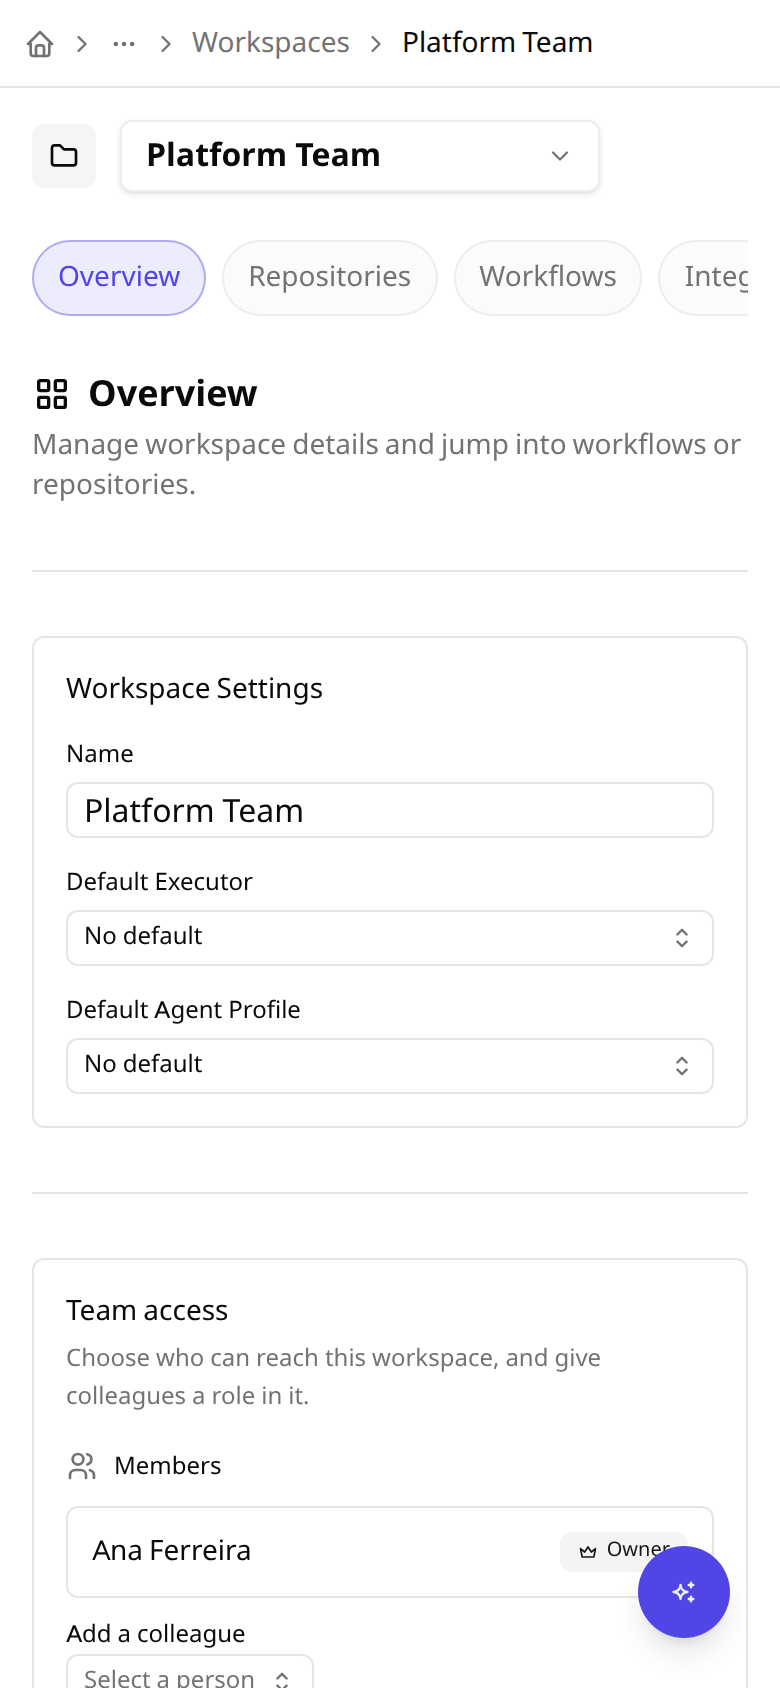
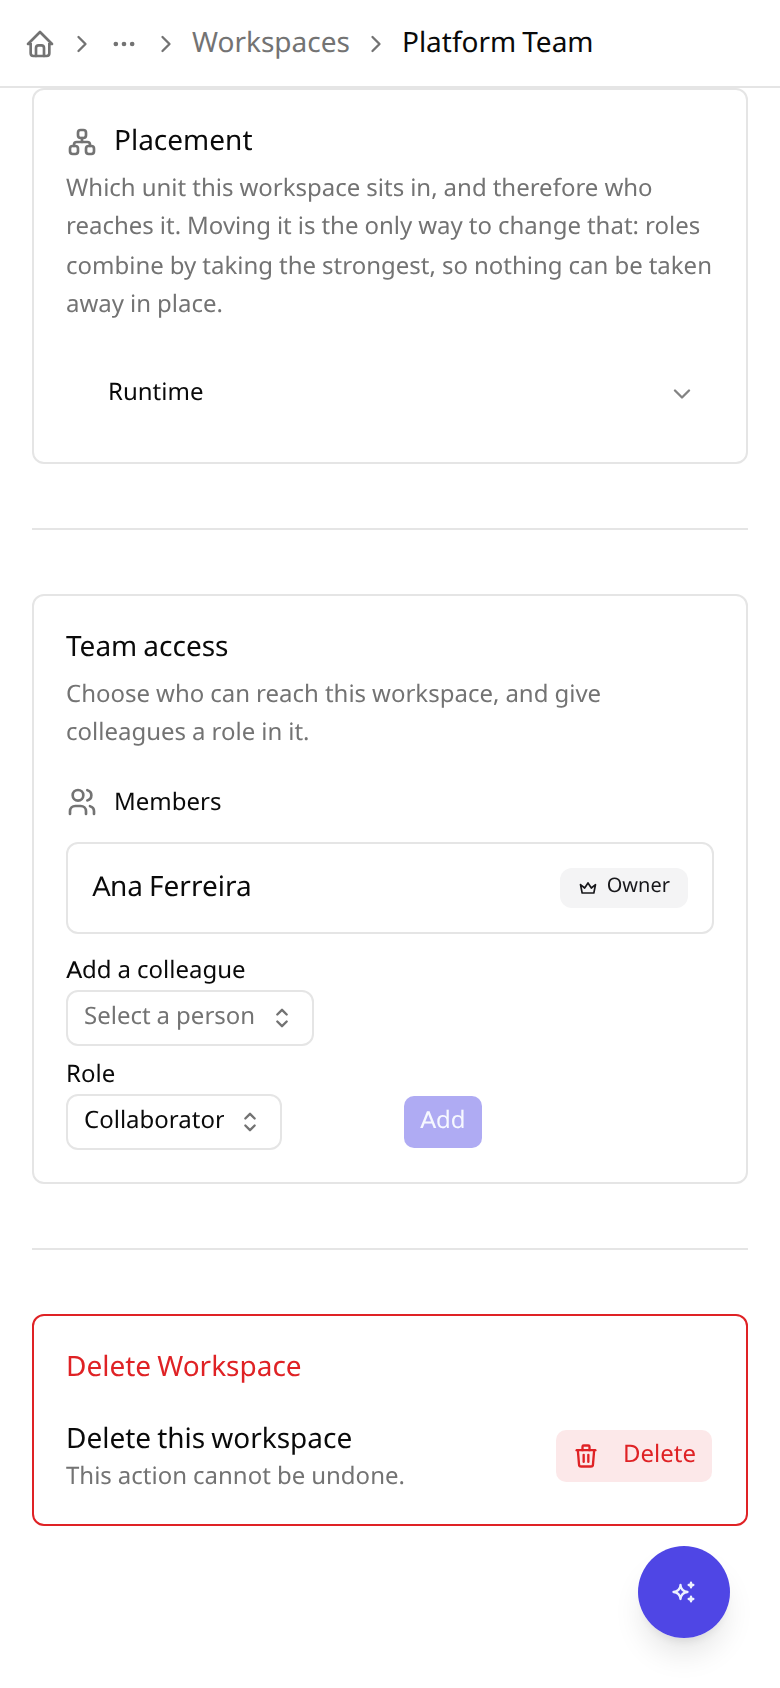
feat(workspaces): add the placement control the interface was missing
Auditing screenshots turned up a gap the work order had claimed was done:
nothing in the interface could move a workspace between units. The API existed
and the e2e spec drove it over HTTP, but placement is the only way to narrow
access in this model, so the capability was unreachable to anyone not using
curl.

The card sits on the workspace settings page, is gated on workspace.manage,
and restores the previous unit when the server refuses a move. Copy ships in
all five locales.

Also captures the two screens that had none: creating a unit, and placement
itself.

diff --git a/apps/web/components/settings/workspaces/workspace-placement-card.tsx b/apps/web/components/settings/workspaces/workspace-placement-card.tsx
@@ -1,0 +1,84 @@
+"use client";
+
+import { useState } from "react";
+import { useTranslation } from "react-i18next";
+import { IconSitemap } from "@tabler/icons-react";
+import { Button } from "@kandev/ui/button";
+import { Card, CardContent, CardDescription, CardHeader, CardTitle } from "@kandev/ui/card";
+import { Combobox } from "@/components/combobox";
+import { toast } from "@/lib/toast/sonner";
+import { useOrgUnits } from "@/hooks/domains/org/use-org-units";
+import { placeWorkspace } from "@/lib/api/domains/org-units-api";
+import { hasScope, SCOPE } from "@/lib/types/team-access";
+
+type Props = {
+  workspaceId: string;
+  unitId?: string;
+  scopes?: readonly string[];
+};
+
+/**
+ * Where a workspace sits, and therefore who reaches it.
+ *
+ * Moving it is the only way to widen or narrow access: roles combine by
+ * maximum, so nothing can be subtracted from a workspace in place. That makes
+ * this control the counterpart of unit membership rather than a filing
+ * convenience.
+ */
+export function WorkspacePlacementCard({ workspaceId, unitId, scopes }: Props) {
+  const { t } = useTranslation();
+  const units = useOrgUnits();
+  const canManage = hasScope(scopes, SCOPE.workspaceManage);
+  const [saving, setSaving] = useState(false);
+  const [current, setCurrent] = useState(unitId ?? "");
+
+  const move = async (next: string) => {
+    if (!next || next === current) return;
+    const previous = current;
+    setCurrent(next);
+    setSaving(true);
+    try {
+      await placeWorkspace(workspaceId, next);
+      toast.success(t("workspaces:placement.moved"));
+    } catch (err) {
+      setCurrent(previous);
+      toast.error(err instanceof Error ? err.message : t("workspaces:placement.failed"));
+    } finally {
+      setSaving(false);
+    }
+  };
+
+  return (
+    <Card data-testid="workspace-placement-card">
+      <CardHeader>
+        <CardTitle className="flex items-center gap-2">
+          <IconSitemap className="text-muted-foreground size-4" aria-hidden />
+          {t("workspaces:placement.title")}
+        </CardTitle>
+        <CardDescription>{t("workspaces:placement.description")}</CardDescription>
+      </CardHeader>
+      <CardContent className="flex flex-wrap items-center gap-2">
+        <Combobox
+          options={units.units.map((unit) => ({
+            value: unit.id,
+            label: `${"  ".repeat(unit.depth)}${unit.name}`,
+            keywords: [unit.name],
+          }))}
+          value={current}
+          onValueChange={(next) => void move(next)}
+          disabled={!canManage || saving || units.loading}
+          placeholder={t("workspaces:placement.pick")}
+          searchPlaceholder={t("workspaces:placement.search")}
+          emptyMessage={t("workspaces:placement.none")}
+          triggerClassName="h-9 w-full max-w-sm justify-between"
+          testId="workspace-placement-picker"
+        />
+        {!canManage && (
+          <Button variant="ghost" size="sm" disabled>
+            {t("workspaces:placement.ownerOnly")}
+          </Button>
+        )}
+      </CardContent>
+    </Card>
+  );
+}

diff --git a/apps/web/components/settings/workspaces/workspace-placement-card.test.tsx b/apps/web/components/settings/workspaces/workspace-placement-card.test.tsx
@@ -1,0 +1,70 @@
+import { afterEach, describe, expect, it, vi } from "vitest";
+import { cleanup, fireEvent, render, screen, waitFor } from "@testing-library/react";
+import { WorkspacePlacementCard } from "./workspace-placement-card";
+
+const placeWorkspace = vi.fn();
+
+vi.mock("@/lib/api/domains/org-units-api", async () => {
+  const actual = await vi.importActual<typeof import("@/lib/api/domains/org-units-api")>(
+    "@/lib/api/domains/org-units-api",
+  );
+  const base = { org_id: "o", created_at: "", updated_at: "" };
+  return {
+    ...actual,
+    listUnits: vi.fn().mockResolvedValue({
+      units: [
+        { ...base, id: "root", parent_id: "", kind: "root", name: "Acme", path: "/root/" },
+        {
+          ...base,
+          id: "dept",
+          parent_id: "root",
+          kind: "standard",
+          name: "Platform",
+          path: "/root/dept/",
+        },
+      ],
+      total: 2,
+    }),
+    placeWorkspace: (...args: unknown[]) => placeWorkspace(...args),
+  };
+});
+
+afterEach(() => {
+  cleanup();
+  vi.clearAllMocks();
+});
+
+const OWNER = ["workspace.read", "workspace.manage"];
+const PICKER = "workspace-placement-picker";
+
+describe("WorkspacePlacementCard", () => {
+  it("moves the workspace to the chosen unit", async () => {
+    placeWorkspace.mockResolvedValue({ id: "ws-1", unit_id: "dept" });
+    render(<WorkspacePlacementCard workspaceId="ws-1" unitId="root" scopes={OWNER} />);
+
+    fireEvent.click(await screen.findByTestId(PICKER));
+    fireEvent.click(await screen.findByText(/Platform/));
+
+    await waitFor(() => expect(placeWorkspace).toHaveBeenCalledWith("ws-1", "dept"));
+  });
+
+  // Moving a workspace changes who reaches it, so it belongs to whoever can
+  // manage the workspace and nobody else.
+  it("disables the picker without workspace.manage", async () => {
+    render(<WorkspacePlacementCard workspaceId="ws-1" unitId="root" scopes={["workspace.read"]} />);
+
+    const picker = await screen.findByTestId(PICKER);
+    expect(picker.hasAttribute("disabled")).toBe(true);
+  });
+
+  it("restores the previous unit when the move is refused", async () => {
+    placeWorkspace.mockRejectedValue(new Error("that unit belongs to another organization"));
+    render(<WorkspacePlacementCard workspaceId="ws-1" unitId="root" scopes={OWNER} />);
+
+    fireEvent.click(await screen.findByTestId(PICKER));
+    fireEvent.click(await screen.findByText(/Platform/));
+
+    await waitFor(() => expect(placeWorkspace).toHaveBeenCalled());
+    await waitFor(() => expect(screen.getByTestId(PICKER).textContent).toContain("Acme"));
+  });
+});

diff --git a/apps/web/app/settings/workspace/workspace-edit-client.tsx b/apps/web/app/settings/workspace/workspace-edit-client.tsx
@@ -36,6 +36,7 @@ import { useSettingsSaveContributor } from "@/components/settings/settings-save-
 import { SettingsTarget } from "@/components/settings/settings-target";
 import { workspaceDiscoveryTarget } from "@/lib/settings-discovery/dynamic-targets";
 import { WorkspaceSectionHeader } from "@/components/settings/workspaces/workspace-section-header";
+import { WorkspacePlacementCard } from "@/components/settings/workspaces/workspace-placement-card";
 import { WorkspaceTeamAccessCard } from "@/components/settings/workspaces/workspace-team-access-card";
 import { hasScope, SCOPE } from "@/lib/types/team-access";
 
@@ -579,6 +580,12 @@ function WorkspaceEditForm({ workspace }: WorkspaceEditFormProps) {
         form mounts, and a snapshot would freeze the owner out of their own
         workspace.
       */}
+      <WorkspacePlacementCard
+        workspaceId={workspace.id}
+        unitId={workspace.unit_id}
+        scopes={workspace.scopes}
+      />
+      <Separator />
       <WorkspaceTeamAccessCard
         workspaceId={workspace.id}
         ownerId={workspace.owner_id ?? ""}

diff --git a/docs/public/team-access.md b/docs/public/team-access.md
@@ -33,6 +33,8 @@ A Kandev workspace is coarse. It owns the default executor, environment and agen
 
 Add a unit under any other. A department and a team are the same thing at different depths, so adding a level later is a move rather than a migration.
 
+![The Organization units page with a New unit card open beneath the tree, its name field filled in with Security.](../screenshots/team-access-unit-create.png)
+
 Two units are created for you and behave differently on purpose:
 
 - The **root** is the whole organization. A workspace parked here is reached by everyone you put in the root.
@@ -43,6 +45,12 @@ Two units are created for you and behave differently on purpose:
 ![The members dialog for the Platform unit, listing Bruno Costa as a collaborator with an add-member row beneath.](../screenshots/team-access-unit-members.png)
 
 Everyone in a unit reaches every workspace under it, at the role you give them. Add someone once when they join the team, not once per board.
+
+## Moving a workspace
+
+A workspace sits in exactly one unit, and `Settings > Workspaces > (workspace)` is where you change it. Moving it is how you hand a board to another team, or take it back.
+
+![The workspace settings page showing a Placement card set to Runtime, above the Team access card.](../screenshots/team-access-workspace-placement.png)
 
 ## Narrowing access
 

diff --git a/docs/plans/org-units/task-04-unit-interface.md b/docs/plans/org-units/task-04-unit-interface.md
@@ -76,6 +76,13 @@ homeless.
 
 Copy ships in all five locales.
 
+A gap found later while auditing screenshots: this order claimed workspace
+placement was shown on the workspace, and it was not. The API and the e2e
+coverage existed, but nothing in the interface could move a workspace, which is
+the only way to narrow access in this design. `WorkspacePlacementCard` closes
+it, gated on `workspace.manage` and restoring the previous unit when a move is
+refused.
+
 RED/GREEN:
 
 - RED: treating a personal unit as an ordinary one fails
